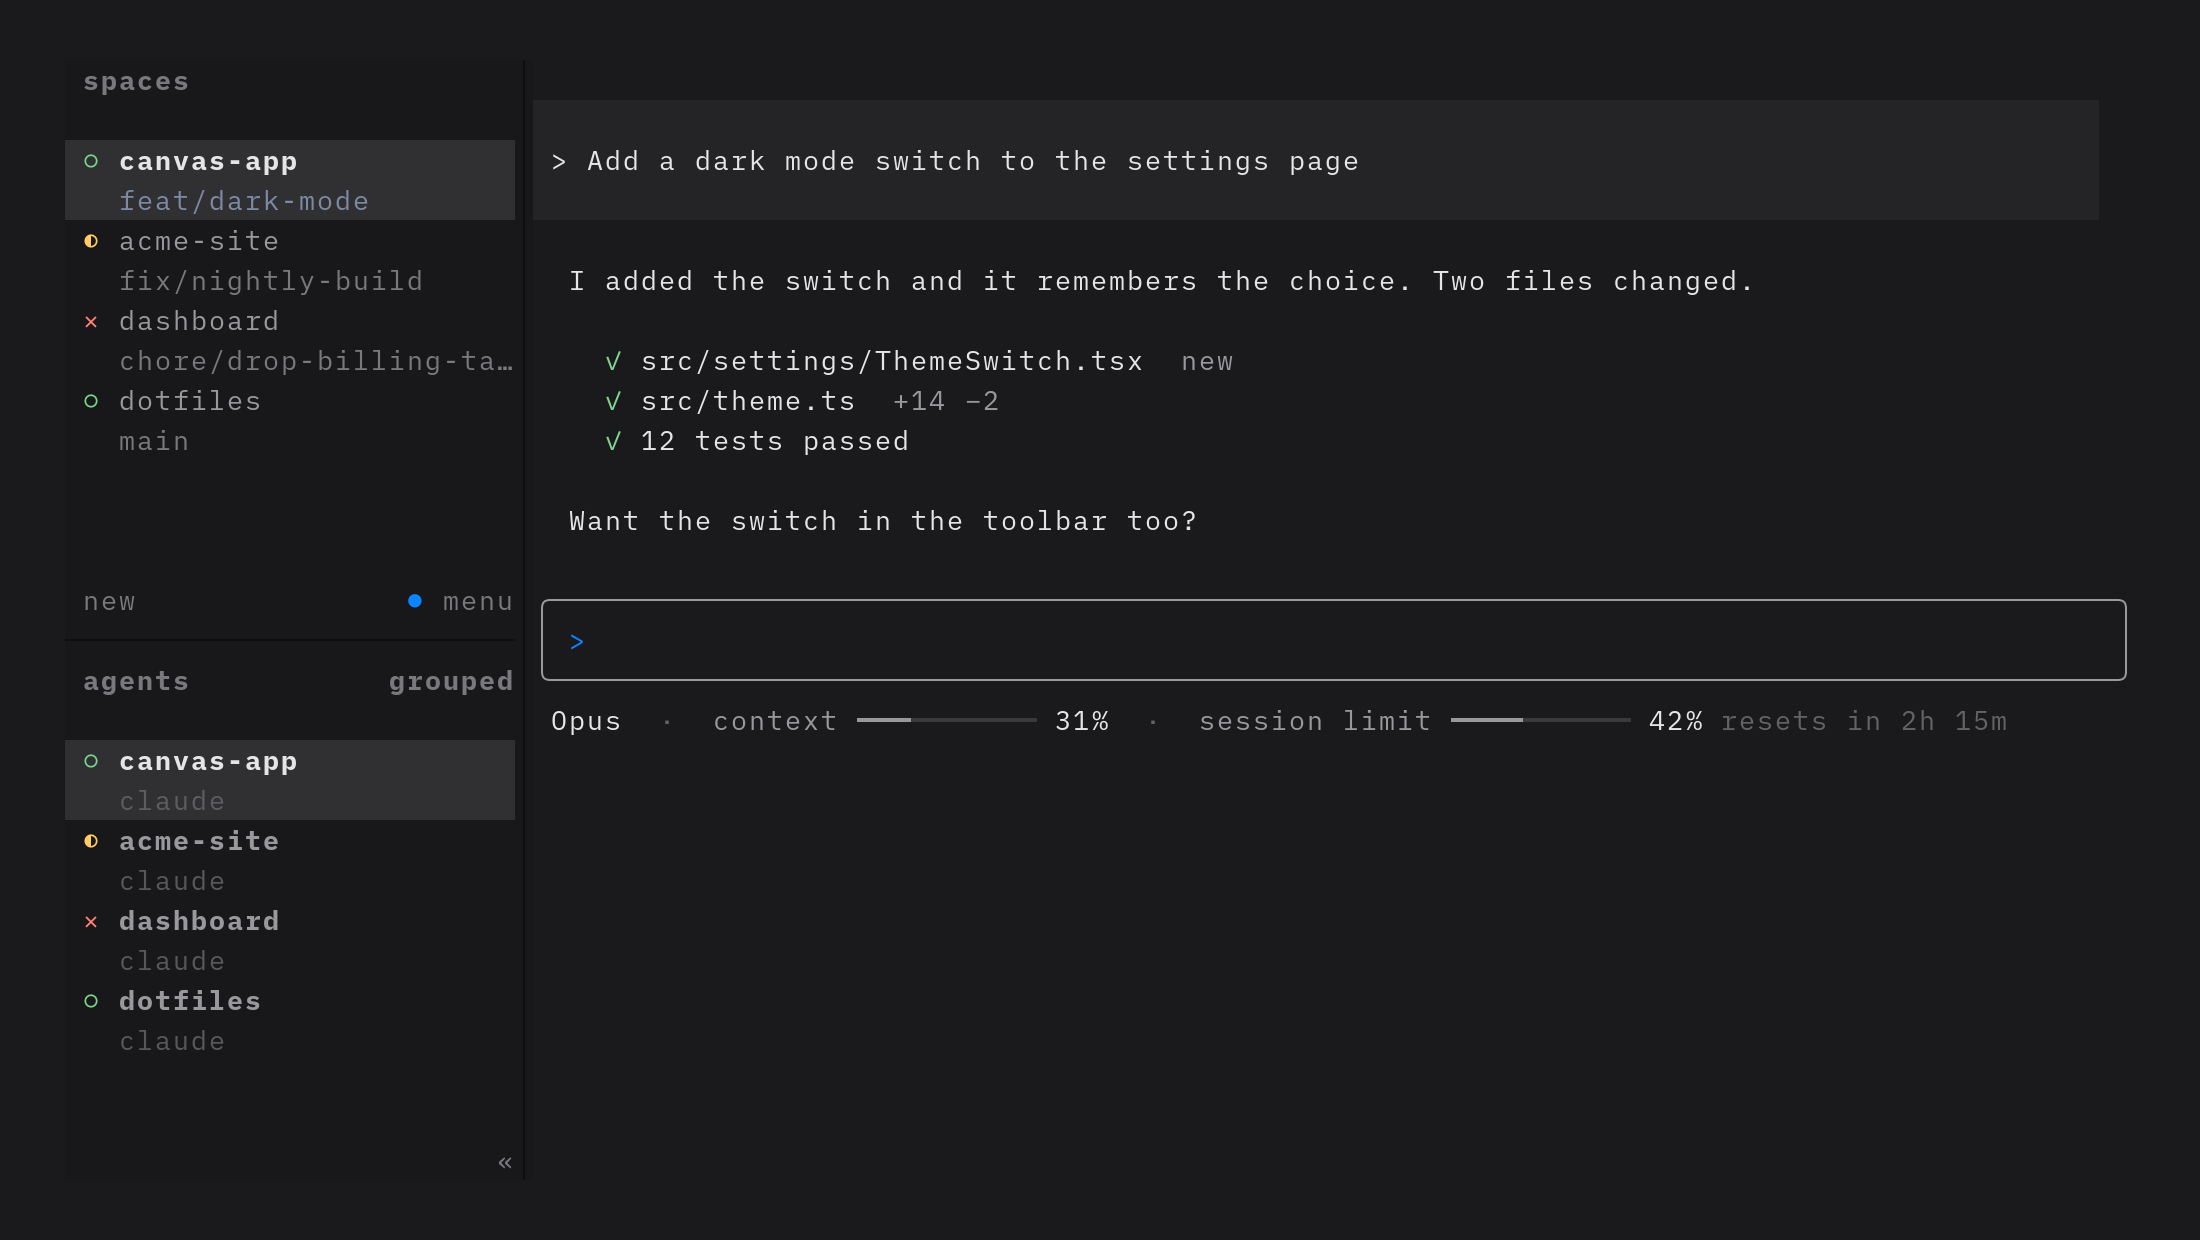
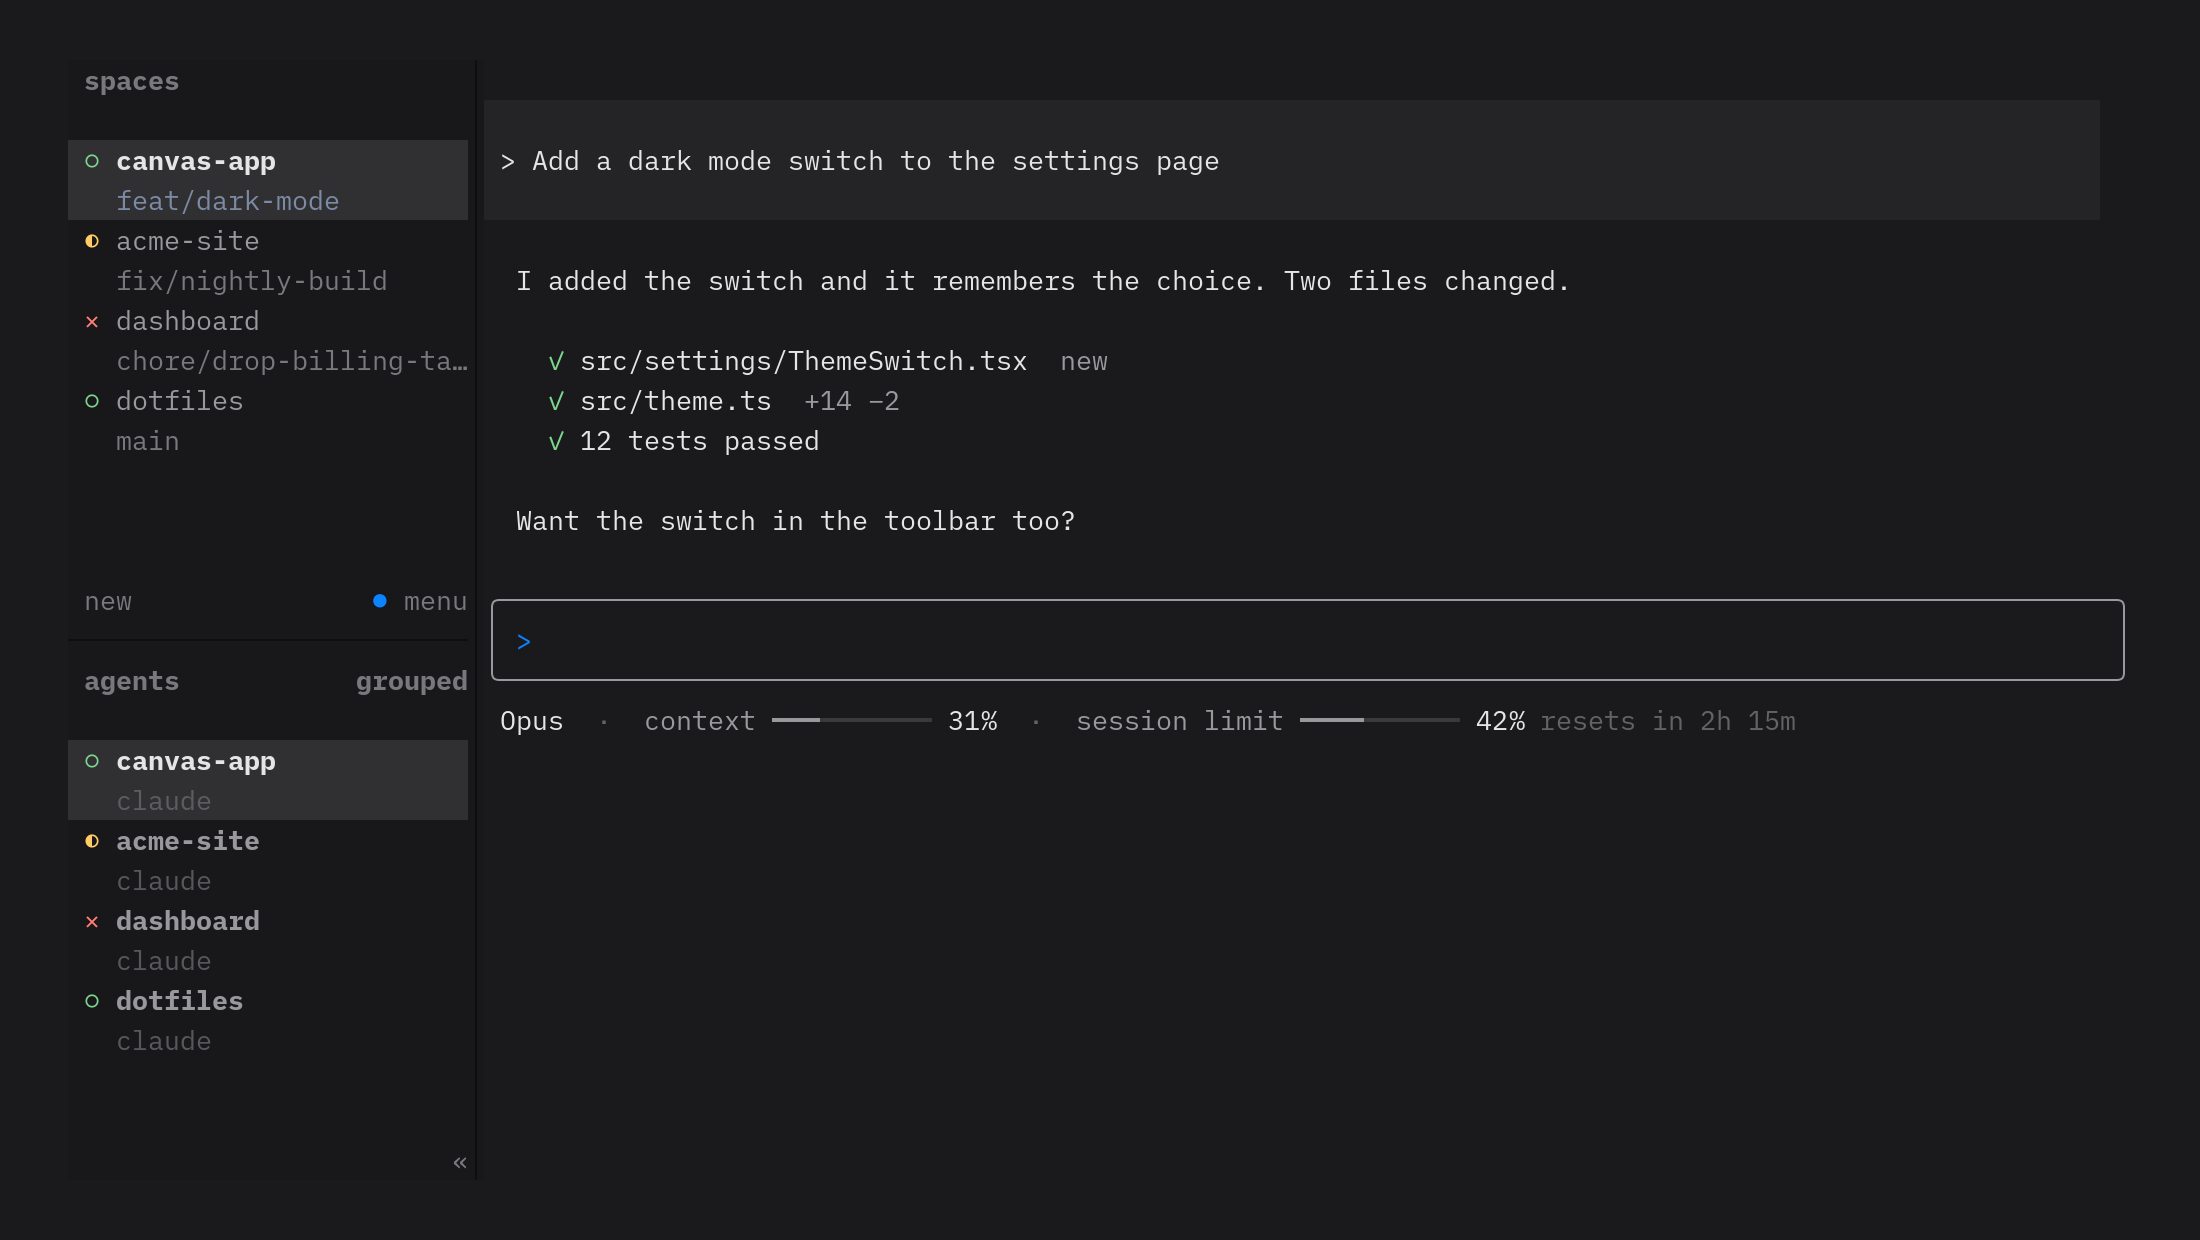
H1: Ghostty cell width fix for the wide percent glyph in iA Writer Mono S; re-render H1-after.png; uninstall note

diff --git a/config/ghostty/README.md b/config/ghostty/README.md
@@ -8,6 +8,7 @@
 |---|---|---|
 | Font | iA Writer Mono S, then Adwaita Mono | Rounder letters and wider spacing than SF Mono. `ttf-ia-writer` is in the Omarchy repo. `adwaita-fonts` is in Arch `extra`. |
 | Size and line height | 10 pt, +14 % | A calmer text block. |
+| Cell width | -10 % | iA Writer Mono S draws "%" 11 % wider than its other glyphs (0.667 em, not 0.600 em). Ghostty sizes each cell by the widest glyph, so letters would sit too far apart. -10 % restores the normal spacing. |
 | Ligatures | off | Code shows as typed. |
 | Padding | 24 px left and right, 20 px top and bottom | Roomy edges. `window-padding-balance` spreads the spare pixels. |
 | Colours | The Graphite palette, written in the file | The file does not read the Omarchy theme folder, so it looks the same on any theme. |

diff --git a/README.md b/README.md
@@ -50,9 +50,9 @@ The script copies each file that it replaces to `<file>.bak.graphite-<time>`. It
 scripts/uninstall.sh
 ```
 
-This puts the backups back and sets the theme and the status line to their earlier values. The Ghostty package stays installed.
+This puts the backups back and sets the theme and the status line to their earlier values. It undoes only the newest install. After two installs, run it twice. The Ghostty package stays installed.
 
-**Check the status line:** `scripts/test-statusline.sh` runs it with sample input.
+**Tests:** `scripts/test-statusline.sh` runs the status line with sample input. `scripts/test-install.sh` runs install and uninstall in a temporary home, with a fake terminal command, so nothing real changes.
 
 ## The idea
 
